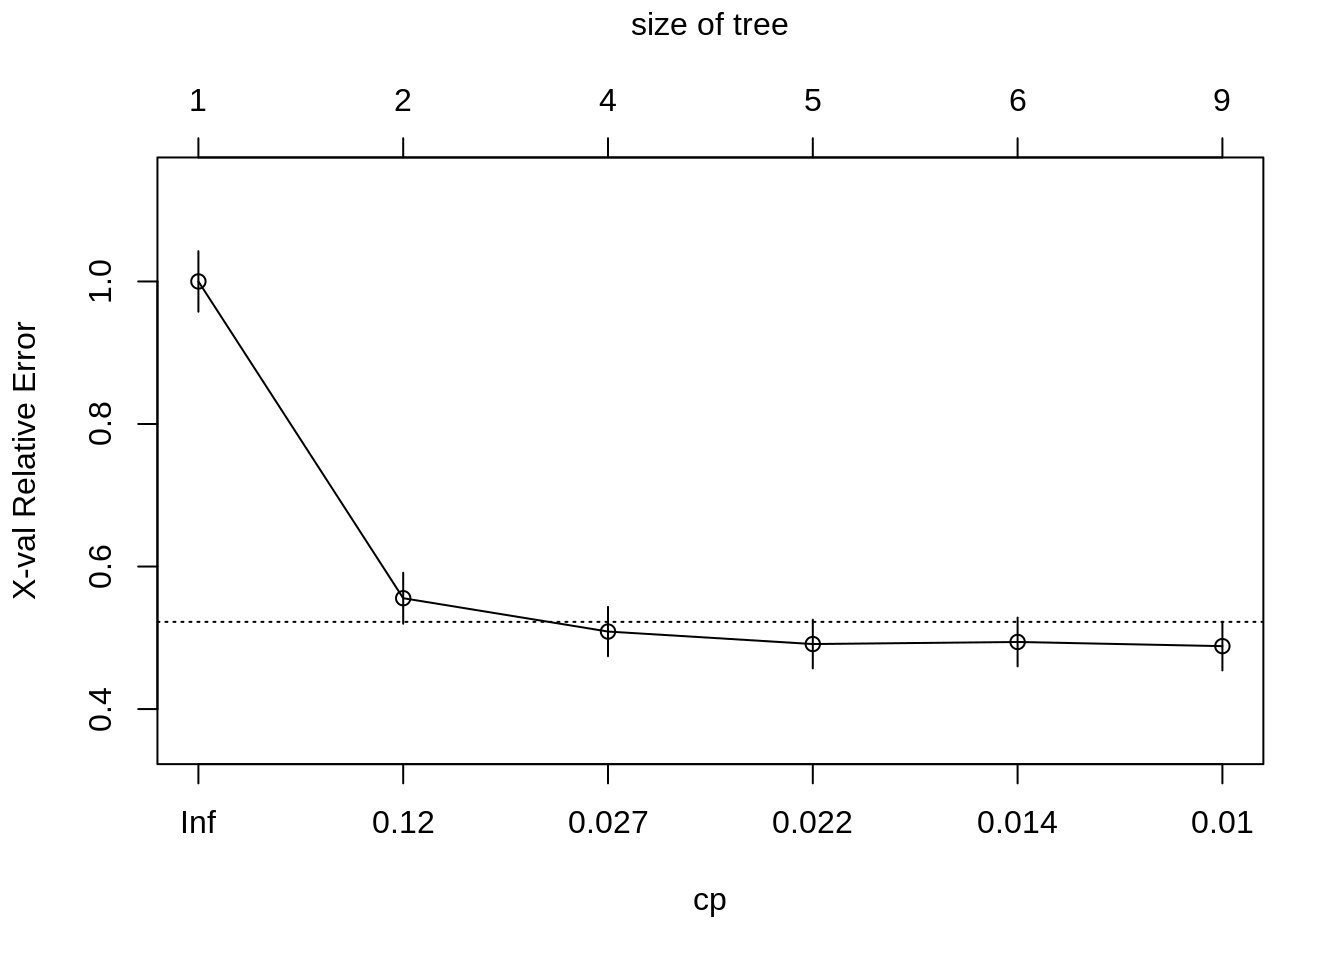
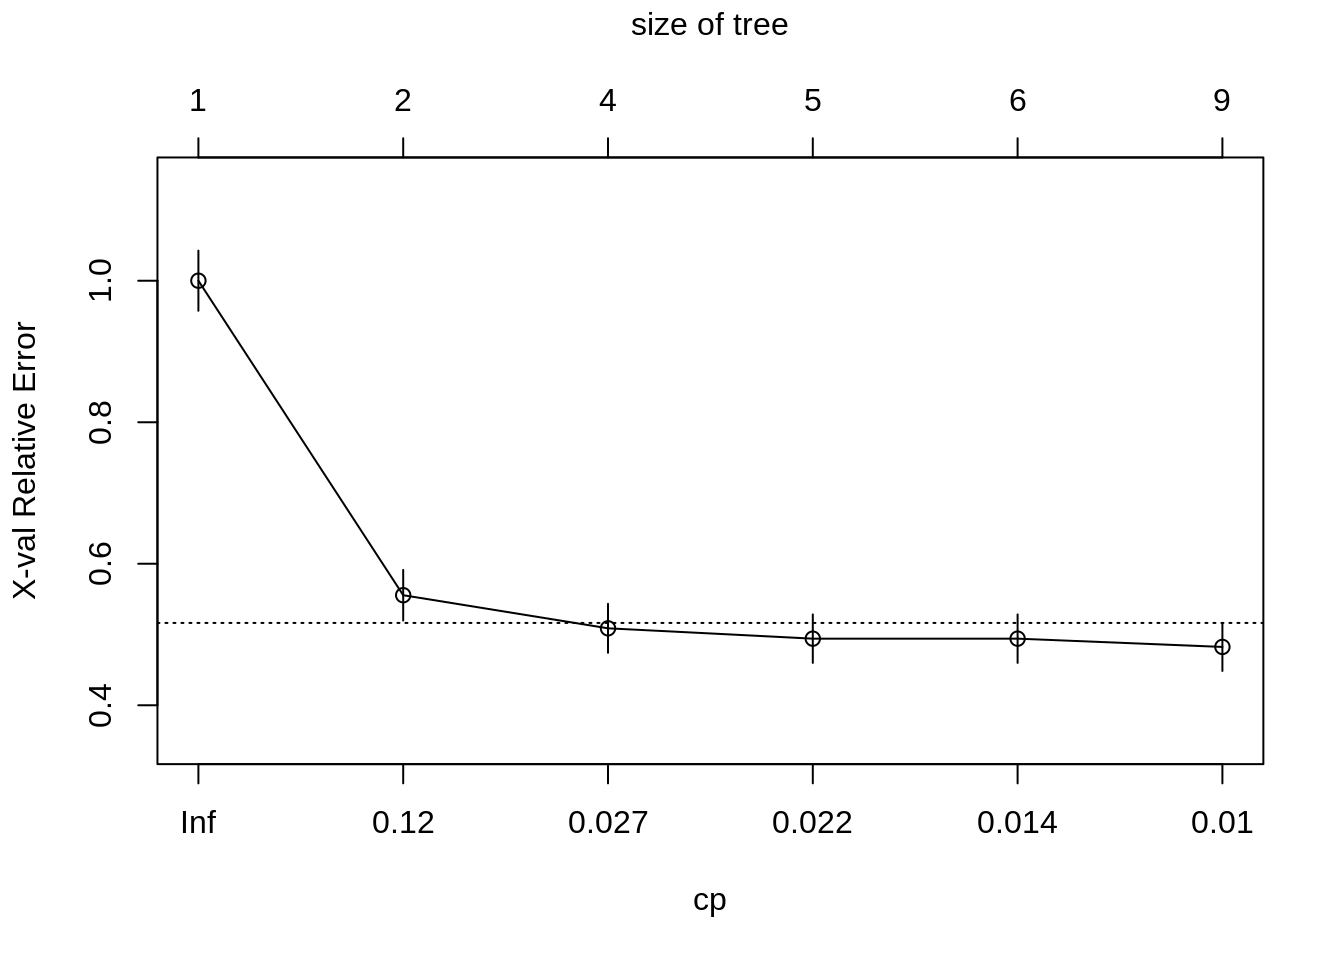
Deploy lebebr01/stat_thinking to github.com/lebebr01/stat_thinking.git:master

diff --git a/docs/classification.html b/docs/classification.html
@@ -325,9 +325,9 @@ titanic &lt;-<span class="st"> </span><span class="kw">bind_rows</span>(titanic_
 ## 1 0.444444      0   1.00000 1.00000 0.042446
 ## 2 0.030702      1   0.55556 0.55556 0.035750
 ## 3 0.023392      3   0.49415 0.50877 0.034599
-## 4 0.020468      4   0.47076 0.49123 0.034140
+## 4 0.020468      4   0.47076 0.49415 0.034217
 ## 5 0.010234      5   0.45029 0.49415 0.034217
-## 6 0.010000      8   0.41813 0.48830 0.034061</code></pre>
+## 6 0.010000      8   0.41813 0.48246 0.033904</code></pre>
 <div class="sourceCode"><pre class="sourceCode r"><code class="sourceCode r"><span class="kw">plotcp</span>(class_tree)</code></pre></div>
 <p><img src="05-classification_files/figure-html/unnamed-chunk-6-1.png" width="672" /></p>
 <div class="sourceCode"><pre class="sourceCode r"><code class="sourceCode r">prune_class_tree &lt;-<span class="st"> </span><span class="kw">prune</span>(class_tree, <span class="dt">cp =</span> .<span class="dv">02</span>)

diff --git a/docs/05-classification.md b/docs/05-classification.md
@@ -250,9 +250,9 @@ printcp(class_tree)
 ## 1 0.444444      0   1.00000 1.00000 0.042446
 ## 2 0.030702      1   0.55556 0.55556 0.035750
 ## 3 0.023392      3   0.49415 0.50877 0.034599
-## 4 0.020468      4   0.47076 0.49123 0.034140
+## 4 0.020468      4   0.47076 0.49415 0.034217
 ## 5 0.010234      5   0.45029 0.49415 0.034217
-## 6 0.010000      8   0.41813 0.48830 0.034061
+## 6 0.010000      8   0.41813 0.48246 0.033904
 ```
 
 ```r
